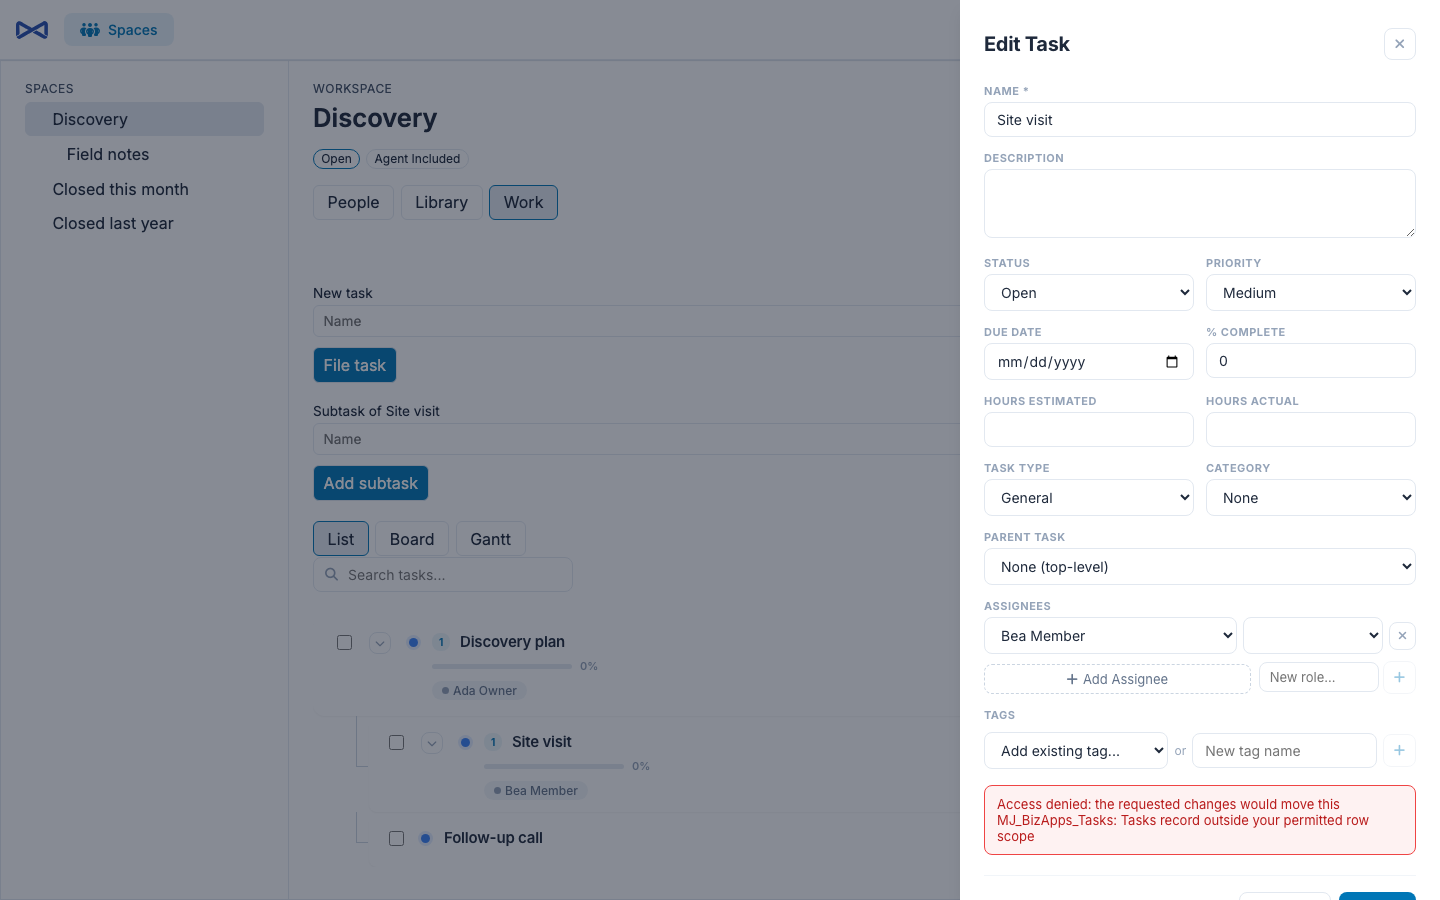
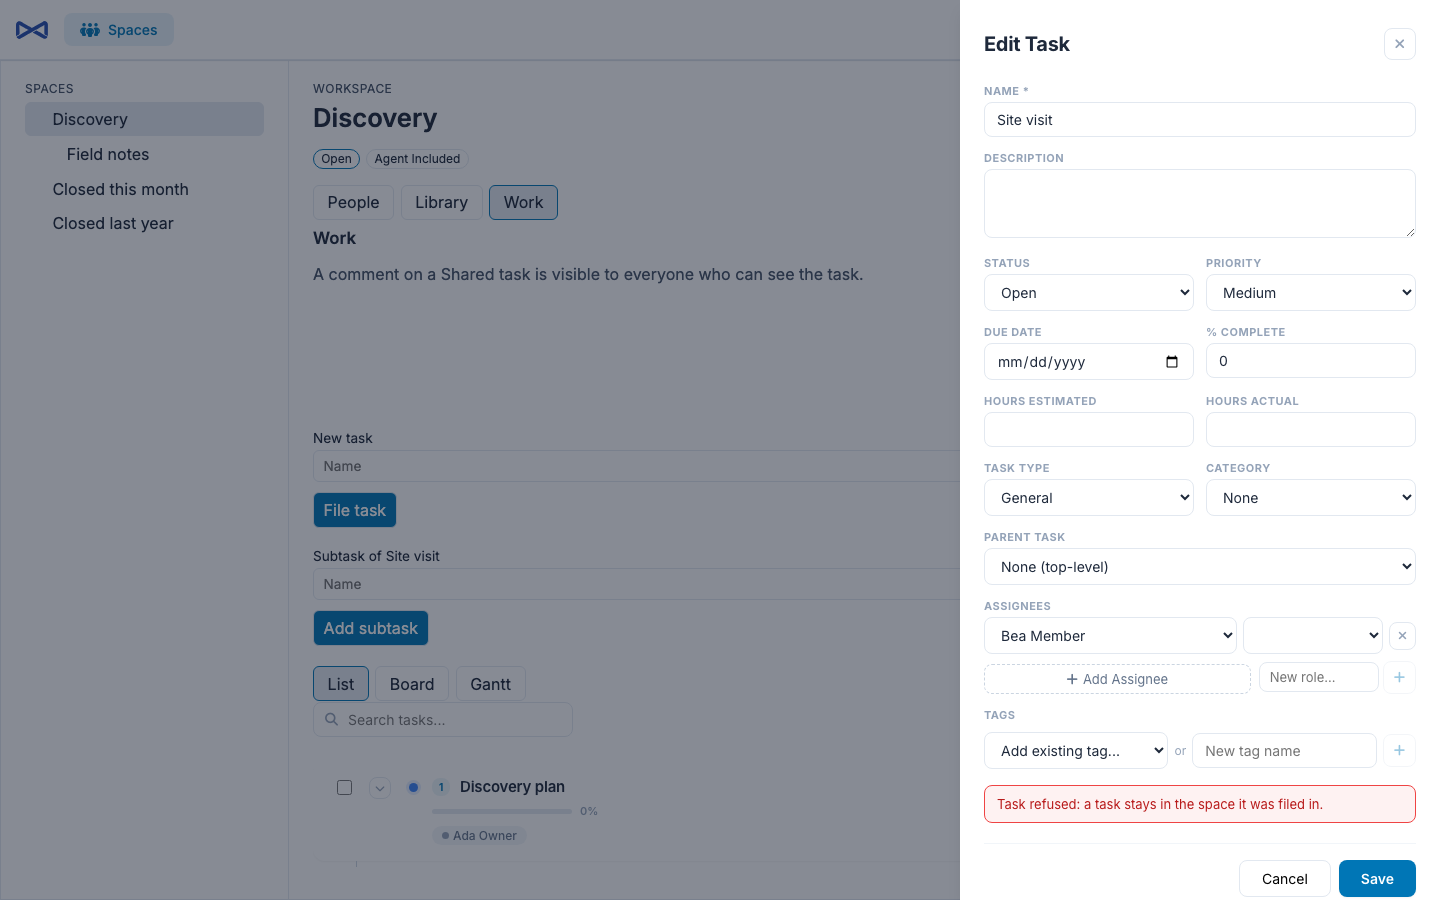
fix: keep the task gate in front of a top-level move
The API now logs the class it builds for a task. Add subtask stays disabled while a save is in flight, and a task opened from the board or the gantt is named from the task itself. Bea lifting Site visit to the top level is refused with the space sentence.

diff --git a/packages/Angular/src/lib/space-workspace.component.ts b/packages/Angular/src/lib/space-workspace.component.ts
@@ -1,5 +1,6 @@
 import { NgTemplateOutlet } from '@angular/common';
 import { ChangeDetectorRef, Component, EventEmitter, Input, Output, ViewChild } from '@angular/core';
+import { RunView } from '@memberjunction/core';
 import { FormsModule } from '@angular/forms';
 import { TaskGanttComponent, TaskKanbanComponent, TaskPanelComponent } from '@mj-biz-apps/tasks-ng';
 import {
@@ -85,6 +86,7 @@ export class SpaceWorkspaceComponent {
     taskName = '';
     taskBand: Band = 'Shared';
     subtaskName = '';
+    subtaskSaving = false;
     selectedTaskId: string | null = null;
     selectedTaskName = '';
     workView: 'list' | 'board' | 'gantt' = 'list';
@@ -240,12 +242,9 @@ export class SpaceWorkspaceComponent {
         this.selectedTaskName = task.Name ?? this.selectedTaskName;
     }
 
-    /** Closing the drawer leaves the task selected, so Add subtask still names it. */
-    keepSelectedTask(): void {}
-
-    openTask(taskId: string): void {
-        if (this.selectedTaskId !== taskId) this.selectedTaskName = '';
+    async openTask(taskId: string): Promise<void> {
         this.selectedTaskId = taskId;
+        this.selectedTaskName = await this.lookupTaskName(taskId);
         this.workView = 'list';
         this.changes.detectChanges();
         this.taskPanel?.OpenDetail(taskId);
@@ -253,12 +252,27 @@ export class SpaceWorkspaceComponent {
 
     sendSubtask(): void {
         const name = this.subtaskName.trim();
-        if (!this.selectedTaskId || !name || !this.canContributeHere()) return;
+        if (this.subtaskSaving || !this.selectedTaskId || !name || !this.canContributeHere()) return;
+        this.subtaskSaving = true;
         this.fileSubtask.emit({ parentId: this.selectedTaskId, name });
     }
 
-    finishSubtask(): void {
-        this.subtaskName = '';
+    finishSubtask(saved: boolean): void {
+        this.subtaskSaving = false;
+        if (saved) this.subtaskName = '';
+    }
+
+    private async lookupTaskName(taskId: string): Promise<string> {
+        const id = sqlUuid(taskId);
+        if (!id) return '';
+        const rows = await new RunView().RunView<{ Name: string }>({
+            EntityName: 'MJ_BizApps_Tasks: Tasks',
+            ExtraFilter: `ID = '${id}'`,
+            Fields: ['Name'],
+            MaxRows: 1,
+            ResultType: 'simple',
+        });
+        return rows.Success ? rows.Results?.[0]?.Name ?? '' : '';
     }
 
     refreshWork(): void {

diff --git a/packages/Angular/src/lib/space-workspace.component.html b/packages/Angular/src/lib/space-workspace.component.html
@@ -181,7 +181,7 @@
             @if (selectedTaskId) {
               <form class="invite" (submit)="$event.preventDefault(); sendSubtask()">
                 <label>{{ selectedTaskName ? 'Subtask of ' + selectedTaskName : 'Subtask' }}<input name="subtask-name" [(ngModel)]="subtaskName" placeholder="Name" /></label>
-                <button type="submit">Add subtask</button>
+                <button type="submit" [disabled]="subtaskSaving">Add subtask</button>
               </form>
             }
           }
@@ -194,7 +194,7 @@
           </div>
           @for (scope of [taskScope(space.id)]; track scope) {
             @if (workView === 'list') {
-              <bizapps-task-panel [ExtraFilter]="scope" [AssigneeScope]="assigneeScope(space.id)" [PersonID]="viewerPersonId" [ShowCreateButton]="false" [ShowQuickAdd]="false" (AfterTaskSelected)="chooseTask($event)" (AfterPanelClosed)="keepSelectedTask()" />
+              <bizapps-task-panel [ExtraFilter]="scope" [AssigneeScope]="assigneeScope(space.id)" [PersonID]="viewerPersonId" [ShowCreateButton]="false" [ShowQuickAdd]="false" (AfterTaskSelected)="chooseTask($event)" />
             } @else if (workView === 'board') {
               <bizapps-task-kanban [ExtraFilter]="scope" [ReadOnly]="!canContributeHere()" (TaskClicked)="openTask($event)" />
             } @else {

diff --git a/packages/CoreEntitiesServer/src/task-entity-server.ts b/packages/CoreEntitiesServer/src/task-entity-server.ts
@@ -1,5 +1,5 @@
-import { BaseEntity, LogError, ValidationErrorInfo, ValidationErrorType, type ValidationResult } from '@memberjunction/core';
-import { RegisterClass } from '@memberjunction/global';
+import { BaseEntity, LogError, LogStatus, ValidationErrorInfo, ValidationErrorType, type ValidationResult } from '@memberjunction/core';
+import { MJGlobal, RegisterClass } from '@memberjunction/global';
 import { membershipReaches } from '@mj-biz-apps/collaboration-core';
 import { TaskEntityServer } from '@mj-biz-apps/tasks-entities-server';
 import { loadWriteContext, requireSystemUser } from './load-graph.js';
@@ -62,4 +62,7 @@ function refuse(result: ValidationResult, field: string, message: string): Valid
 
 export function LoadCollaborationTaskEntityServer(): void {
     void CollaborationTaskEntityServer;
+    const matches = MJGlobal.Instance.ClassFactory.GetAllRegistrations(BaseEntity, 'MJ_BizApps_Tasks: Tasks');
+    const winner = MJGlobal.Instance.ClassFactory.GetRegistration(BaseEntity, 'MJ_BizApps_Tasks: Tasks');
+    LogStatus(`Tasks class: ${(winner?.SubClass as { name?: string } | undefined)?.name ?? 'none'} at ${winner?.Priority ?? 'none'}; registered ${matches.map((row) => `${(row.SubClass as { name?: string }).name}@${row.Priority}`).join(', ')}`);
 }

diff --git a/packages/Angular/src/lib/collaboration-section.component.ts b/packages/Angular/src/lib/collaboration-section.component.ts
@@ -342,10 +342,8 @@ export class CollaborationSectionResource extends BaseResourceComponent {
         task.Priority = parent.Priority;
         const saved = await task.Save();
         this.message = saved ? '' : (task.LatestResult?.CompleteMessage || 'The subtask was refused.');
-        if (saved) {
-            this.workspace?.finishSubtask();
-            this.workspace?.refreshWork();
-        }
+        this.workspace?.finishSubtask(saved);
+        if (saved) this.workspace?.refreshWork();
         this.changes.markForCheck();
     }
 

diff --git a/plans/plan.md b/plans/plan.md
@@ -264,7 +264,7 @@ The two search items marked *fix first* are small and are the ones that would bi
 
 **Task catalog and comments.** Task types, roles, categories, tags, outcomes, and templates are readable by every participant. The catalog is public. A comment on a Shared task is visible to everyone who can see that task, including a client. A comment can be changed only by its author. Removing an assignee, a tag link, or a dependency is allowed under the same write rule as changing it, so the edit panel's removal stays removed. Tag links use that write filter for delete directly.
 
-**Task attribution classes.** Collaboration registers comment, decision, and assignment subclasses at priority 2, above bizapps-tasks' generated classes. A later tasks subclass at the same priority or lower is shadowed. The checks apply only when the caller holds Space Participant, matched by role id, and they stamp the person on create only. A hook in bizapps-tasks would let that app own the extension point instead. A filed root keeps an empty parent. Setting a parent on one is refused on the task itself. A new root task uses the General task type, looked up by code `GENERAL`. Saving that task writes a Created activity, so dropping an unfiled task deletes those activity rows first, as the system user, and then the task. The task subclass extends `TaskEntityServer` at priority 100, above the tasks server class. A participant's subtask is stamped with that person's `CreatedByPersonID`. An assignee of a filed task must hold a seat in that space, and a Team task cannot be given to someone who cannot see Team. The parent check runs only when `ParentID` changes on a saved task, and the seat check runs only when the task or the assignee changes, so a later status save is left alone. The filing is two reads: `RootParentID` on the task view, then that root's space item. `@memberjunction/storage`, `@mj-biz-apps/tasks-entities`, and `@mj-biz-apps/tasks-entities-server` are peers, with exact versions only for the build. The tasks floor is 1.5.0. The Work tab lists those roots and their subtasks through the tasks components. A new root is filed with `createSpaceTask`. A subtask is saved by the caller under the selected task. A comment on a Shared task is visible to everyone who can see the task. The viewer's own Person is passed into the task panel so a comment can be saved. Space Participant can read their own Person and People linked to a user with an active seat on a space they reach. That row includes email, phone, date of birth and gender; those fields are not narrowed. Moving a task under a parent in another space, or under a task that is not filed, is refused, and so is clearing the parent of a filed subtask. Changing its band inside the space takes promote rights. Guests see the task panel's Edit button and comment box, because that panel has no read-only input, and those saves are refused. The board is read-only for them. bizapps-tasks 1.5.0 lets the UI role read tasks and not write them. A staff user with only that role can file a root, because the system user creates it, and cannot change a status, comment, assign, or add a subtask until bizapps-tasks grants UI create and update. Developer and Integration can write today. Collaboration does not grant the UI role itself. Until that grant lands, the loader saves Ada's assignment and comment as her when she can create them, and otherwise as the system user, and logs item 86. The server package peers the email packages, the database provider, and bizapps-common the same way, and the manifest names bizapps-common because People is read directly.
+**Task attribution classes.** Collaboration registers comment, decision, and assignment subclasses at priority 2, above bizapps-tasks' generated classes. A later tasks subclass at the same priority or lower is shadowed. The checks apply only when the caller holds Space Participant, matched by role id, and they stamp the person on create only. A hook in bizapps-tasks would let that app own the extension point instead. A filed root keeps an empty parent. Setting a parent on one is refused on the task itself. A new root task uses the General task type, looked up by code `GENERAL`. Saving that task writes a Created activity, so dropping an unfiled task deletes those activity rows first, as the system user, and then the task. The task subclass extends `TaskEntityServer` at priority 100, above the tasks server class. A participant's subtask is stamped with that person's `CreatedByPersonID`. An assignee of a filed task must hold a seat in that space, and a Team task cannot be given to someone who cannot see Team. The parent check runs only when `ParentID` changes on a saved task, and the seat check runs only when the task or the assignee changes, so a later status save is left alone. The filing is two reads: `RootParentID` on the task view, then that root's space item. `@memberjunction/storage`, `@mj-biz-apps/tasks-entities`, and `@mj-biz-apps/tasks-entities-server` are peers, with exact versions only for the build. The tasks floor is 1.5.0. The Work tab lists those roots and their subtasks through the tasks components. A new root is filed with `createSpaceTask`. A subtask is saved by the caller under the selected task. A comment on a Shared task is visible to everyone who can see the task. The viewer's own Person is passed into the task panel so a comment can be saved. Space Participant can read their own Person and People linked to a user with an active seat on a space they reach. That row includes email, phone, date of birth and gender; those fields are not narrowed. Moving a task under a parent in another space, or under a task that is not filed, is refused, and so is clearing the parent of a filed subtask. Changing its band inside the space takes promote rights. Guests see the task panel's Edit button and comment box, because that panel has no read-only input, and those saves are refused. The board is read-only for them. bizapps-tasks 1.5.0 lets the UI role read tasks and not write them. A staff user with only that role can file a root, because the system user creates it, and cannot change a status, comment, assign, or add a subtask until bizapps-tasks grants UI create and update. Developer and Integration can write today. Collaboration does not grant the UI role itself. Until that grant lands, the loader saves Ada's assignment and comment as her when she can create them, and otherwise as the system user, and logs item 86. The tasks list should indent by depth, the board and the gantt should emit the task row from TaskClicked, and the edit panel should check Save() when it creates a role, a tag, an assignment, or a link. The server package peers the email packages, the database provider, and bizapps-common the same way, and the manifest names bizapps-common because People is read directly.
 
 **Invitation door (2026-09-23).** Item 15 is the roster invitation, not the one-off reviewer link. An email saves a seat through the member gate, so the ceiling, approval, and member cap apply. The sign-in link is a plain app session and does not outlive the seat. Anyone who can invite may send one, within their ceiling. The raw URL goes to the address when the host has an email channel, and otherwise only to a caller who passes MemberJunction's issuer rule. A space owner who does not is refused the URL. The one-off `resource-share` reviewer door is a later item. Giving `CreateInvite` a resource id and an issuer hook is MemberJunction work, on the list in §8, and is Amith's call.
 
